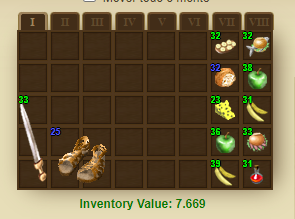
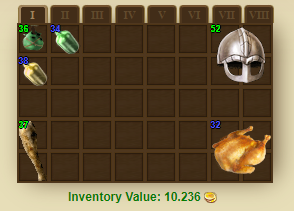
minor adjusts

diff --git a/scripts/InventoryValue.js b/scripts/InventoryValue.js
@@ -36,9 +36,9 @@
         value = "Inventory Value: " + formatMoney(value)
         if(document.querySelector(".inv_value") == null){
             document.querySelector("#inv").insertAdjacentHTML('afterend', `<div style="text-align: center;height: 18px;width: 256px;margin: 5px 20px;">
-            <span style="width:256px; text-align:center; color: rgb(0, 128, 0);" class="bag_duration inv_value">${value}</span></div>`)
+            <div style="width:256px; text-align:center; color: rgb(0, 128, 0);" class="bag_duration inv_value">${value} <img alt="" src="//gf1.geo.gfsrv.net/cdn6b/71e68d38f81ee6f96a618f33c672e0.gif" title="Ouro" align="absmiddle" border="0"></div></div>`)
         }else{
-            document.querySelector(".inv_value").innerText = value
+            document.querySelector(".inv_value").innerHTML = value + ' <img alt="" src="//gf1.geo.gfsrv.net/cdn6b/71e68d38f81ee6f96a618f33c672e0.gif" title="Ouro" align="absmiddle" border="0">'
         }
     }
     calcInv()

diff --git a/scripts/user/InventoryValue.user.js b/scripts/user/InventoryValue.user.js
@@ -36,9 +36,9 @@
         value = "Inventory Value: " + formatMoney(value)
         if(document.querySelector(".inv_value") == null){
             document.querySelector("#inv").insertAdjacentHTML('afterend', `<div style="text-align: center;height: 18px;width: 256px;margin: 5px 20px;">
-            <span style="width:256px; text-align:center; color: rgb(0, 128, 0);" class="bag_duration inv_value">${value}</span></div>`)
+            <div style="width:256px; text-align:center; color: rgb(0, 128, 0);" class="bag_duration inv_value">${value} <img alt="" src="//gf1.geo.gfsrv.net/cdn6b/71e68d38f81ee6f96a618f33c672e0.gif" title="Ouro" align="absmiddle" border="0"></div></div>`)
         }else{
-            document.querySelector(".inv_value").innerText = value
+            document.querySelector(".inv_value").innerHTML = value + ' <img alt="" src="//gf1.geo.gfsrv.net/cdn6b/71e68d38f81ee6f96a618f33c672e0.gif" title="Ouro" align="absmiddle" border="0">'
         }
     }
     calcInv()
